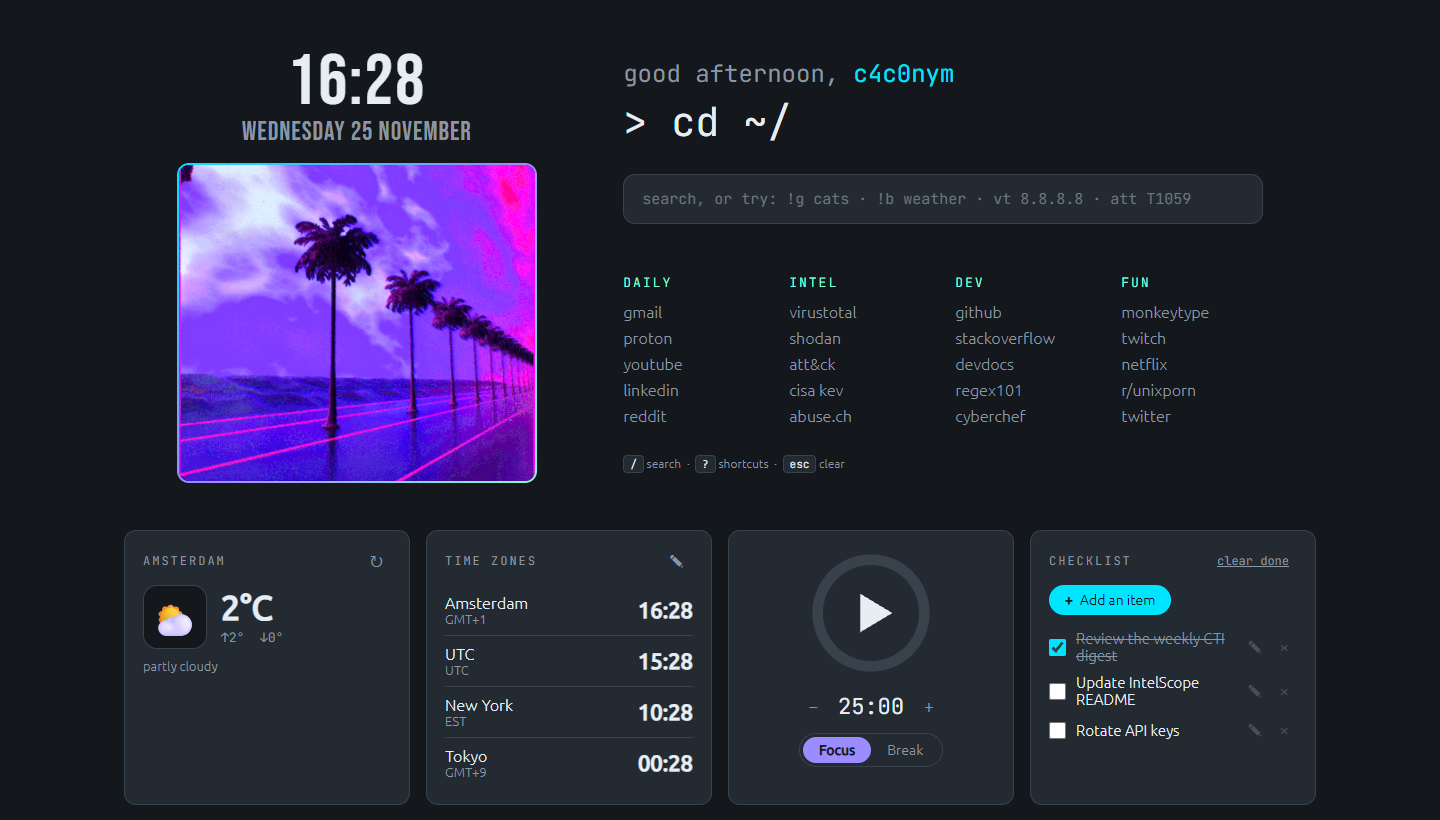
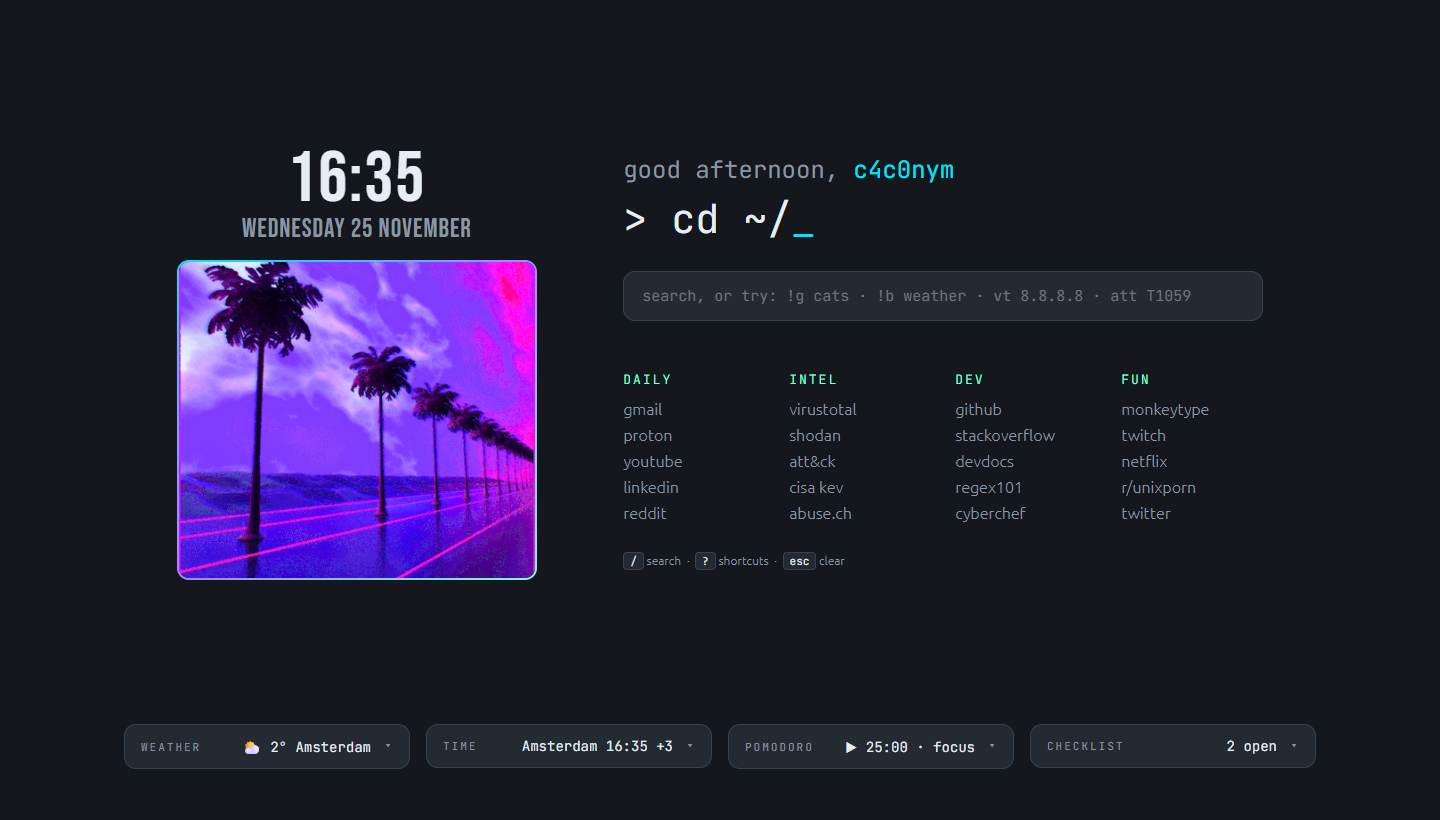
Editable name, minimizable widgets (minimized by default), fix / and ? in text fields

diff --git a/widgets.js b/widgets.js
@@ -26,6 +26,44 @@
   const svg = (markup) => { const t = document.createElement("template"); t.innerHTML = markup.trim(); return t.content.firstChild; };
   const svgPart = (markup) => svg('<svg xmlns="http://www.w3.org/2000/svg">' + markup + "</svg>").firstChild;
 
+  /* ================= minimize ================= */
+  // Every widget starts as a slim bar with one line of information. Click the bar to open the
+  // widget, click – in its header to fold it again. The choice is remembered per widget.
+  const pendingMini = {};
+  function setMini(id, text) {
+    pendingMini[id] = text;
+    const el = document.querySelector("#" + id + " .mini-val");
+    if (el) el.textContent = text;
+  }
+  function collapsible(id, title, short = title) {
+    const root = $(id);
+    const state = store.get("startpage.widgets", {});
+    const body = h("div", { class: "card-body", id: id + "-body" }, [...root.childNodes]);
+    let head = body.querySelector(".card-head");
+    if (!head) { head = h("div", { class: "card-head" }, h("span", { class: "card-title", text: title })); body.prepend(head); }
+    const minBtn = h("button", { class: "icon-btn", type: "button", "aria-label": "Minimize " + title, title: "Minimize", text: "–" });
+    head.append(h("span", { class: "head-actions" }, [...head.children].slice(1), minBtn));
+    const mini = h("button", { class: "mini", type: "button", "aria-controls": id + "-body" },
+      h("span", { class: "mini-label", text: short }),
+      h("span", { class: "mini-val", text: pendingMini[id] || "" }),
+      h("span", { class: "chev", "aria-hidden": "true", text: "▾" }));
+    root.append(mini, body);
+    const set = (open, remember) => {
+      root.classList.toggle("open", open);
+      body.hidden = !open;
+      mini.hidden = open;
+      mini.setAttribute("aria-expanded", String(open));
+      if (remember) { const s = store.get("startpage.widgets", {}); s[id] = open; store.set("startpage.widgets", s); }
+    };
+    mini.addEventListener("click", () => {
+      set(true, true);
+      const calm = window.matchMedia("(prefers-reduced-motion: reduce)").matches;
+      root.scrollIntoView({ behavior: calm ? "auto" : "smooth", block: "nearest" });
+    });
+    minBtn.addEventListener("click", () => { set(false, true); mini.focus(); });
+    set(state[id] === true, false);
+  }
+
   /* ================= weather ================= */
   const WMO = [
     [[0], "☀", "clear", "🌙"],
@@ -60,6 +98,7 @@
     function render(d) {
       place.textContent = d.name || "Weather";
       const { icon, label } = describe(d.code, d.isDay);
+      setMini("w-weather", `${icon} ${Math.round(d.temp)}° ${d.name || ""}`.trim());
       body.replaceChildren(
         h("div", { class: "wx-main" },
           h("div", { class: "wx-icon", "aria-hidden": "true", text: icon }),
@@ -127,7 +166,7 @@
       try { state = (await navigator.permissions.query({ name: "geolocation" })).state; } catch { /* unsupported */ }
       if (state === "granted") { if (!fresh) locate(); }
       else if (cached) { if (!fresh) load(cached.lat, cached.lon, cached.name).catch(() => {}); }
-      else say("Show the weather where you are.", retry());
+      else { say("Show the weather where you are.", retry()); setMini("w-weather", "set your location"); }
     })();
     setInterval(() => { const c = store.get("startpage.weather", null); if (c) load(c.lat, c.lon, c.name).catch(() => {}); }, 15 * 60 * 1000);
   }
@@ -187,11 +226,17 @@
       editBtn.setAttribute("aria-pressed", String(editing));
       if (editing && zones.length >= MAX) msg.textContent = "Four time zones is the maximum. Remove one to add another.";
       else if (!editing) msg.textContent = "";
+      summary(now);
+    }
+    // collapsed bar: the first zone plus how many more are listed
+    function summary(now) {
+      setMini("w-zones", zones.length ? `${label(zones[0])} ${clock(zones[0], now)}${zones.length > 1 ? ` +${zones.length - 1}` : ""}` : "none yet");
     }
     draw();
     setInterval(() => {
       const now = new Date();
       for (const el of list.querySelectorAll(".zone-time")) el.textContent = clock(el.dataset.zone, now);
+      summary(now);
     }, 1000);
   }
 
@@ -241,6 +286,7 @@
       minus.disabled = plus.disabled = running;
       reset.hidden = running || left === total;
       document.title = running ? `${fmt(left)} · ${mode}` : baseTitle;
+      setMini("w-pomo", `${running ? "❚❚" : "▶"} ${fmt(left)} · ${mode}`);
     }
     function beep() {
       try {
@@ -348,6 +394,8 @@
       list.replaceChildren(...items.map(row));
       if (!items.length && !adding) list.append(h("li", { class: "muted small", text: "Nothing here. Add something." }));
       clearBtn.hidden = !items.some((i) => i.done);
+      const open = items.filter((i) => !i.done).length;
+      setMini("w-todo", !items.length ? "empty" : open ? `${open} open` : "all done");
     }
     draw();
   }
@@ -356,4 +404,8 @@
   timezoneWidget();
   pomodoroWidget();
   checklistWidget();
+  collapsible("w-weather", "Weather");
+  collapsible("w-zones", "Time zones", "Time");
+  collapsible("w-pomo", "Pomodoro");
+  collapsible("w-todo", "Checklist");
 })();

diff --git a/style.css b/style.css
@@ -25,7 +25,7 @@ html, body {
 }
 
 .container {
-  min-height: calc(100vh - 290px);
+  min-height: calc(100vh - 96px);
   display: flex;
   align-items: center;
   justify-content: center;
@@ -168,9 +168,10 @@ kbd {
   display: grid;
   grid-template-columns: repeat(auto-fit, minmax(230px, 1fr));
   gap: 16px;
+  align-items: start;
   max-width: 1240px;
   margin: 0 auto;
-  padding: 0 24px 40px;
+  padding: 0 24px 28px;
 }
 .card {
   min-height: 236px;
@@ -179,6 +180,7 @@ kbd {
   border: 1px solid var(--border);
   border-radius: var(--radius);
 }
+.head-actions { display: inline-flex; align-items: center; gap: 2px; }
 .card-head { display: flex; align-items: center; justify-content: space-between; min-height: 28px; margin-bottom: 10px; }
 .card-title { font: 400 12px "JetBrains Mono", monospace; text-transform: uppercase; letter-spacing: 2px; color: var(--muted); }
 .muted { color: var(--muted); }
@@ -273,3 +275,41 @@ button { font: inherit; color: inherit; }
 .todo-edit { flex: 1; }
 .todo-actions { display: inline-flex; opacity: .35; transition: opacity .12s ease; }
 .todo:hover .todo-actions, .todo:focus-within .todo-actions { opacity: 1; }
+
+/* ---- minimized widgets: one slim bar each */
+.card:not(.open) { min-height: 0; padding: 0; }
+.mini {
+  display: flex;
+  align-items: center;
+  gap: 12px;
+  width: 100%;
+  padding: 12px 16px;
+  text-align: left;
+  background: none;
+  border: 0;
+  border-radius: var(--radius);
+  color: var(--fg);
+  cursor: pointer;
+}
+.mini:hover, .mini:focus-visible { background: rgba(255, 255, 255, .03); outline: none; }
+.mini:focus-visible { box-shadow: 0 0 0 2px var(--accent); }
+.mini-label { flex: none; font: 400 11px "JetBrains Mono", monospace; text-transform: uppercase; letter-spacing: 2px; color: var(--muted); }
+.mini-val { flex: 1; min-width: 0; overflow: hidden; text-overflow: ellipsis; white-space: nowrap; font: 14px "JetBrains Mono", monospace; text-align: right; font-variant-numeric: tabular-nums; }
+.chev { flex: none; color: var(--muted); font-size: 12px; }
+.mini:hover .chev, .mini:focus-visible .chev { color: var(--accent); }
+
+/* ---- editable name */
+.name-btn, .name-input {
+  font: inherit;
+  color: var(--accent);
+  background: none;
+  border: 0;
+  border-bottom: 1px dashed transparent;
+  padding: 0;
+  margin: 0;
+}
+.name-btn { cursor: text; }
+.name-btn:hover, .name-btn:focus-visible { border-bottom-color: var(--accent); outline: none; }
+.name-btn::after { content: " ✎"; font-size: .6em; opacity: 0; transition: opacity .12s ease; }
+.name-btn:hover::after, .name-btn:focus-visible::after { opacity: .6; }
+.name-input { border-bottom: 1px solid var(--accent); outline: none; min-width: 3ch; }

diff --git a/script.js b/script.js
@@ -14,7 +14,43 @@
     $("greeting").textContent =
       h < 5 ? "still up" : h < 12 ? "good morning" : h < 18 ? "good afternoon" : "good evening";
   }
-  $("name").textContent = CONFIG.name;
+  // ---- name: click to change, saved in this browser (empty = back to the default)
+  const NAME_MAX = 24;
+  const nameEl = $("name");
+  const showName = () => { nameEl.textContent = store.get("startpage.name") || CONFIG.name; };
+  nameEl.addEventListener("click", () => {
+    const input = document.createElement("input");
+    input.type = "text";
+    input.className = "name-input";
+    input.maxLength = NAME_MAX;
+    input.value = nameEl.textContent;
+    input.spellcheck = false;
+    input.setAttribute("aria-label", "Your name");
+    const fit = () => { input.style.width = Math.max(3, input.value.length + 1) + "ch"; };
+    let done = false;
+    const finish = (save) => {
+      if (done) return;
+      done = true;
+      if (save) {
+        const v = input.value.trim().slice(0, NAME_MAX);
+        if (v && v !== CONFIG.name) store.set("startpage.name", v); else store.set("startpage.name", "");
+      }
+      input.replaceWith(nameEl);
+      showName();
+      nameEl.focus();
+    };
+    input.addEventListener("input", fit);
+    input.addEventListener("keydown", (e) => {
+      if (e.key === "Enter") { e.preventDefault(); finish(true); }
+      else if (e.key === "Escape") { e.stopPropagation(); finish(false); }
+    });
+    input.addEventListener("blur", () => finish(true));
+    nameEl.replaceWith(input);
+    fit();
+    input.focus();
+    input.select();
+  });
+  showName();
   tick();
   setInterval(tick, 1000);
 
@@ -118,7 +154,9 @@
 
   // ---- keyboard
   document.addEventListener("keydown", (e) => {
-    const typing = document.activeElement === q;
+    // any text field counts: otherwise "/" and "?" could not be typed into the widgets or the name box
+    const a = document.activeElement;
+    const typing = !!a && (a.tagName === "TEXTAREA" || (a.tagName === "INPUT" && !/^(checkbox|radio|button)$/.test(a.type)));
     if (e.key === "/" && !typing) { e.preventDefault(); q.focus(); }
     else if (e.key === "?" && !typing) { help.hidden = !help.hidden; }
     else if (e.key === "Escape") { q.value = ""; $("hint").textContent = ""; q.blur(); help.hidden = true; }

diff --git a/index.html b/index.html
@@ -22,7 +22,7 @@
     </section>
 
     <section class="right">
-      <p class="prompt"><span id="greeting">hello</span>, <span class="accent" id="name"></span>
+      <p class="prompt"><span id="greeting">hello</span>, <button class="accent name-btn" id="name" type="button" title="Click to change your name"></button>
         <span class="path">&gt; cd ~/<span class="cursor">_</span></span></p>
 
       <form id="search" class="search" autocomplete="off">

diff --git a/README.md b/README.md
@@ -5,6 +5,10 @@ bookmarks, next to a retro gif you can click to switch.
 
 ![screenshot](screenshot.png)
 
+The widgets start minimized. Opened up:
+
+![widgets opened](screenshot-widgets.png)
+
 **Live:** https://c4c0nym.github.io/
 
 ## Features
@@ -27,7 +31,8 @@ bookmarks, next to a retro gif you can click to switch.
   | `g` / `b` | Google / Bing | `!g cats`, `!b weather` |
   | `gh` / `yt` / `r` | GitHub / YouTube / Reddit | `gh iocscope` |
 
-- **Widgets** under the search box:
+- **Your name:** click the name after the greeting to change it. It is saved in your browser; clear the field to go back to the default from `config.js`.
+- **Widgets** under the search box. They start minimized as a slim bar with one line each (temperature and place, the first time zone, the timer, open checklist items). Click a bar to open the widget, click **–** in its header to fold it again; the choice is remembered per widget:
   - **Weather** for where you are. It asks for your location only when you click **Use my location** (or when the browser already allows it), and falls back to a city search if you decline.
   - **Time zones:** up to four, 24-hour times with the zone offset. Use ✎ to add or remove them; type a city (`Tokyo`) or a zone (`Europe/Paris`).
   - **Pomodoro timer:** focus and break modes, − / + to change the length, a ring that fills as time passes, a short beep at the end and the countdown in the tab title.
